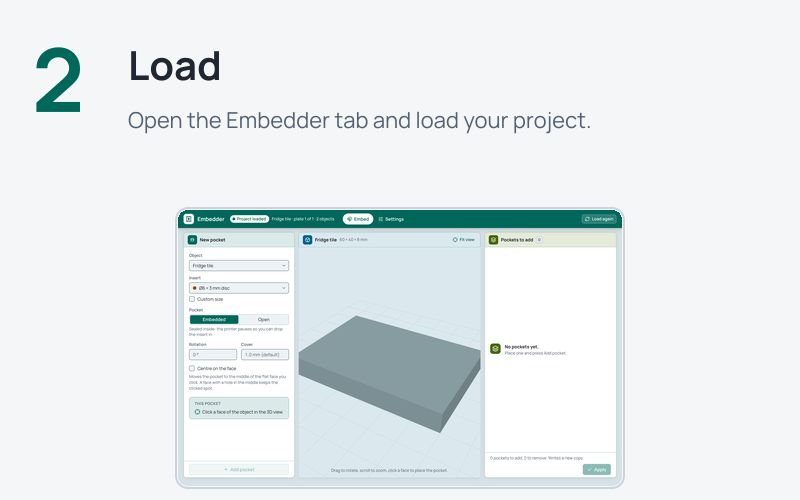
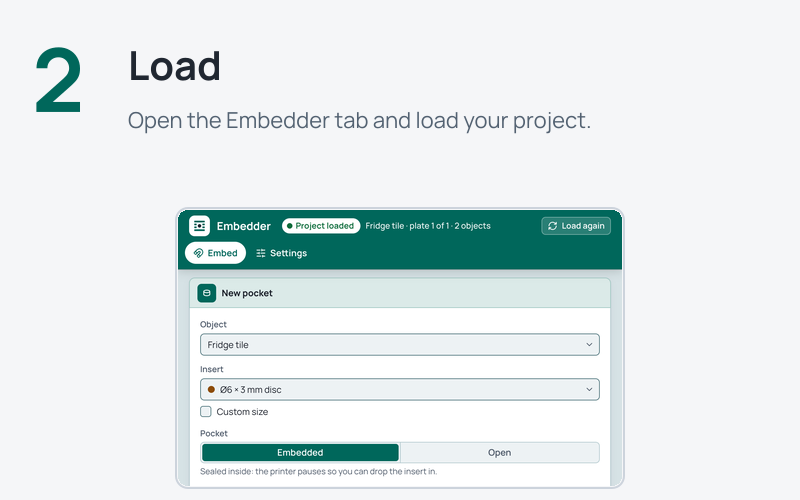
docs(art): whole-page store renders, readable install cards, balanced vertical social image
Store and README renders use a window the whole state fits in (taller for
custom sizes), the install cards a small one so their text reads at card
size, the result card shows a user path instead of the run's temp folder,
and frames.py centres the vertical social image's content.

Changed region(s): [[0.2188, 0.42, 0.7812, 0.99]]

diff --git a/scripts/frames.py b/scripts/frames.py
@@ -6,7 +6,9 @@
    transparent; the README picks their light or dark variant.
 2. The real page renders (node ui/tests/page/shots.mjs) go into the empty 16:10 screenshot frames, at the
    coordinates in the manifest. The SVG masters keep their empty frames.
-3. docs/related-plugins/embedder-preview.png (560x224, shown by the sibling plugins) is resized from the
+3. Opaque images whose kit layout leaves a deeper margin below the content than above it (BALANCE) are moved down
+   until both margins match; a balanced image is left as it is.
+4. docs/related-plugins/embedder-preview.png (560x224, shown by the sibling plugins) is resized from the
    finished dark README hero.
 
 Running it again over its own output gives the same bytes: flattening an opaque image changes nothing and the
@@ -20,7 +22,7 @@ import json
 import sys
 from pathlib import Path
 
-from PIL import Image, ImageDraw
+from PIL import Image, ImageChops, ImageDraw
 
 ROOT = Path(__file__).resolve().parents[1]
 MAX_STORE_BYTES = 2_000_000          # Orca Cloud refuses images of 2 MB or more
@@ -44,6 +46,9 @@ PLACES = {
     "assets/social/embedder-social-square.png": "pause-dark",
     "assets/social/embedder-social-vertical.png": "placement-dark",
 }
+# Opaque images whose kit layout leaves more room below the content than above it, with the content's top edge in the
+# kit's export. The PNG is moved down until the two margins are equal; the SVG master keeps its layout.
+BALANCE = {"assets/social/embedder-social-vertical.png": 76}
 INSET = 2                            # inside the frame's 2 px border
 RADIUS = {"install": 12}             # frame corner radius by folder; 16 elsewhere (the SVG masters' rx)
 
@@ -78,8 +83,26 @@ def flatten(target, background):
     return save(Image.alpha_composite(base, image).convert("RGB"), target)
 
 
-def place(target, shot, frame):
-    x, y, w, h = frame["x"] + INSET, frame["y"] + INSET, frame["width"] - 2 * INSET, frame["height"] - 2 * INSET
+def content_box(image, background):
+    return ImageChops.difference(image.convert("RGB"), Image.new("RGB", image.size, hex_rgb(background))).getbbox()
+
+
+def balance(target, background):
+    """Move the content of an opaque PNG down so its top and bottom margins match. A balanced image is unchanged."""
+    image = Image.open(ROOT / target).convert("RGB")
+    _, top, _, bottom = content_box(image, background)
+    shift = (top + image.height - bottom) // 2 - top
+    if shift:
+        moved = Image.new("RGB", image.size, hex_rgb(background))
+        moved.paste(image, (0, shift))
+        save(moved, target)
+    return shift
+
+
+def place(target, shot, frame, background):
+    # an image moved by balance() carries its frame lower by as much
+    dy = content_box(Image.open(ROOT / target), background)[1] - BALANCE[target] if target in BALANCE else 0
+    x, y, w, h = frame["x"] + INSET, frame["y"] + INSET + dy, frame["width"] - 2 * INSET, frame["height"] - 2 * INSET
     radius = RADIUS.get(target.split("/")[1], 16) - INSET
     base = Image.open(ROOT / target)
     render = Image.open(shot).convert(base.mode).resize((w, h), Image.LANCZOS)
@@ -99,11 +122,14 @@ def main():
         if a["png"].startswith(OPAQUE) and a["background"] == "transparent":
             print("%-48s on %s %7d bytes" % (a["png"], a["intended_background"], flatten(a["png"], a["intended_background"])))
     known = {a["png"]: a["screenshot_frames"] for a in assets if a["screenshot_frames"]}
+    backgrounds = {a["png"]: a["intended_background"] for a in assets}
     for target, name in PLACES.items():
         (frame,) = known[target]
         if frame["aspect_ratio"] != "16:10":
             raise SystemExit("%s: frame is not 16:10" % target)
-        print("%-48s <- %-16s %7d bytes" % (target, name, place(target, shots / (name + ".png"), frame)))
+        print("%-48s <- %-16s %7d bytes" % (target, name, place(target, shots / (name + ".png"), frame, backgrounds[target])))
+    for target in BALANCE:
+        print("%-48s moved down %d px" % (target, balance(target, backgrounds[target])))
     for target in sorted(set(known) - set(PLACES)):
         print("%-48s    left empty" % target)
     print("%-48s <- %-16s %7d bytes" % (PREVIEW[1], PREVIEW[0].split("/")[-1], preview()))

diff --git a/ui/tests/page/shots_host.py b/ui/tests/page/shots_host.py
@@ -20,6 +20,7 @@ sys.path[:0] = [os.path.join(ROOT, "src", "embedder"), os.path.join(ROOT, "tests
 import fake_orca  # noqa: E402
 import fixtures  # noqa: E402
 
+SHOWN_STORAGE = "~/OrcaSlicer/plugins/embedder"   # where the result card says the copy went
 LIVE = {"layer_height": "0.2", "initial_layer_print_height": "0.2", "machine_pause_gcode": "M601",
         "print_sequence": "by layer", "raft_layers": "0", "printable_area": ["0x0", "256x0", "256x256", "0x256"]}
 
@@ -34,7 +35,6 @@ def project(path):
 
 def main():
     channel, sys.stdout = sys.stdout, sys.stderr   # the plugin's log lines go to stderr, the stream stays JSON
-    # a short neutral path: the result card prints where the applied copy went
     work = tempfile.mkdtemp(prefix="embedder-shots-", dir="/tmp" if os.path.isdir("/tmp") else None)
     try:
         storage = os.path.join(work, "storage")
@@ -49,8 +49,10 @@ def main():
         out = threading.Lock()
 
         def post(data):
+            # the copy's folder as a user would see it, not this run's temporary one (the file name is the plugin's own)
+            line = json.dumps(data).replace(json.dumps(storage)[1:-1], SHOWN_STORAGE)
             with out:
-                channel.write(json.dumps(data) + "\n")
+                channel.write(line + "\n")
                 channel.flush()
 
         page.post_message = post
